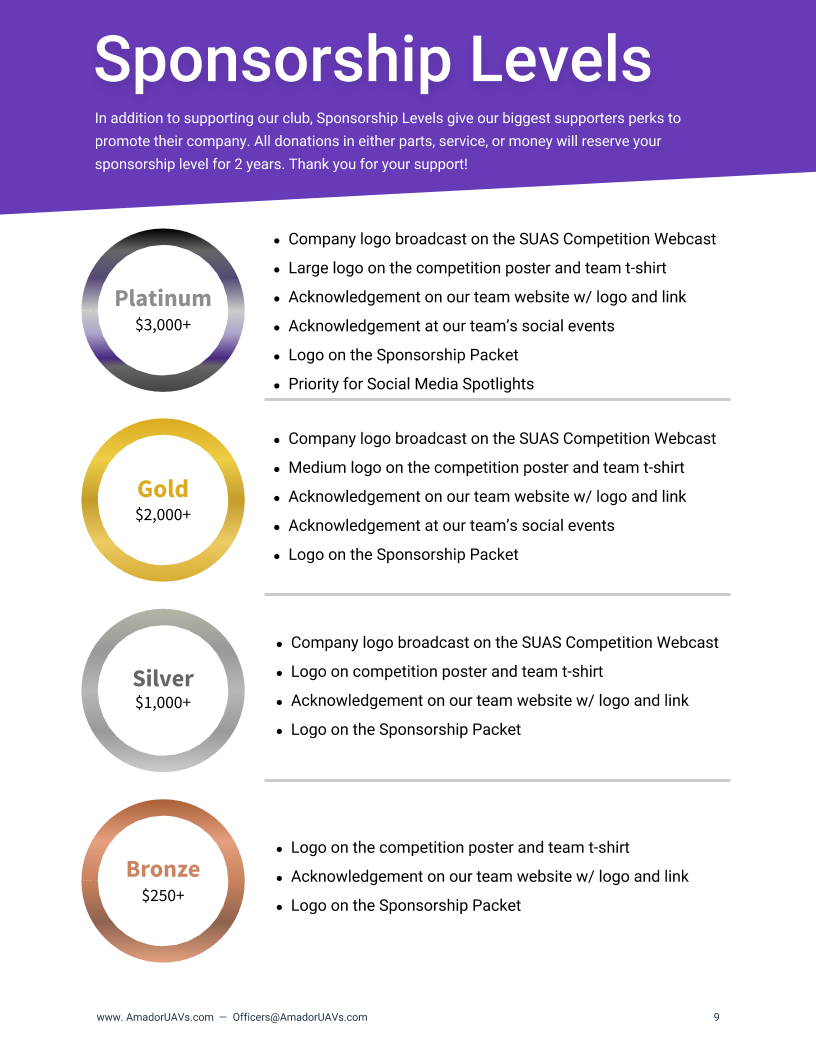
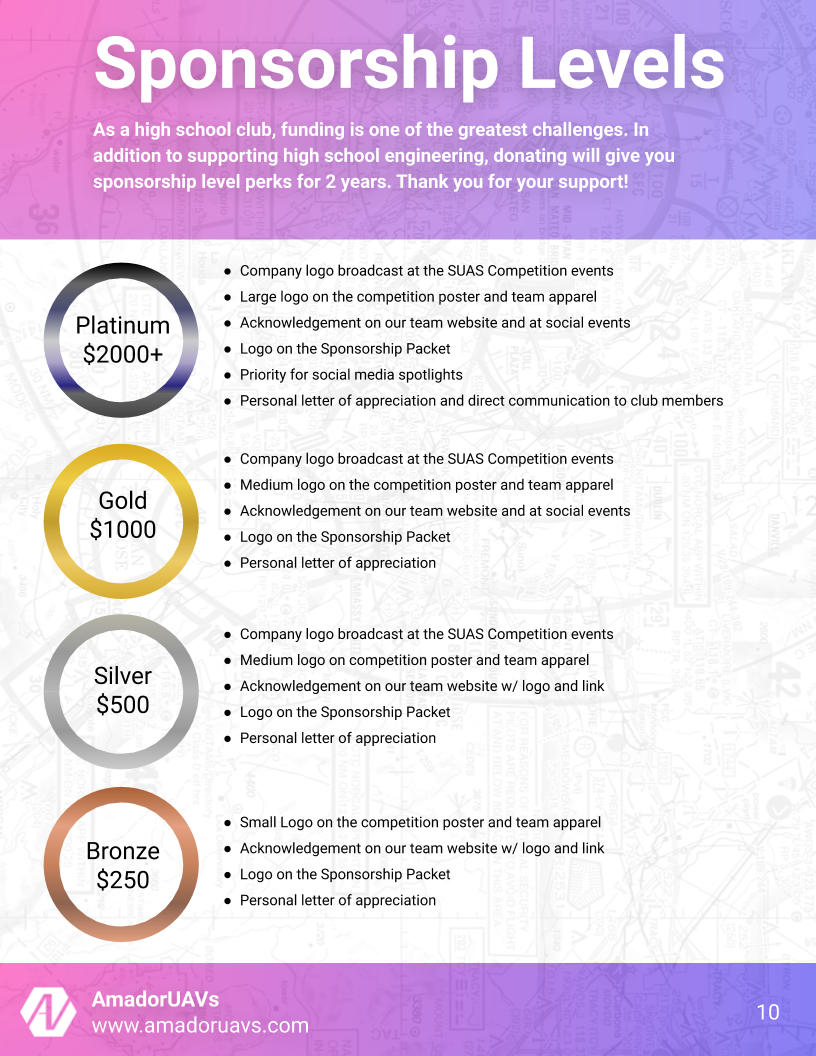
updated sponsorship levels and packet, still working to get text working

diff --git a/_site/sponsors.html b/_site/sponsors.html
@@ -66,7 +66,7 @@
         <div class="container has-text-centered">
             <h1 class="title is-1">Sponsor Us!</h1>
             <h1 class="subtitle">Support high school aviation and engineering, and get cool perks such as a logo on our drone and more!</h1>
-            <a class="button is-info" href="https://drive.google.com/open?id=1ljbzLm_QGdZGVtO8ctIcZxbWYral9QcC">
+            <a class="button is-info" href="https://drive.google.com/open?id=1BZ1BHePTxTGrvTFHCgmu2J6DsGFHBZnt">
                 Sponsorship Packet
                 <!-- <span class="icon"> -->
                     <!-- <i class="fas fa-external-link-square-alt"></i> -->
@@ -79,7 +79,7 @@
     </div>
 </section>
 
-<h1 class-"subtitle">Interested in sponsoring AmadorUAVs? Contact us at officers@amadoruavs.com to learn more.</h1>
+<h1 class="subtitle has-text-centered">Interested in sponsoring AmadorUAVs? Contact us at officers@amadoruavs.com to learn more.</h1>
 <br />
 
 <div class="container fullheight-img" id="sponsorLevelsSection">

diff --git a/_site/index.html b/_site/index.html
@@ -66,7 +66,7 @@
         <div class="container has-text-centered">
             <h1 class="title bot-pad-title large-title has-text-white">We are AmadorUAVs</h1>
             <h1 class="subtitle is-1 has-text-white">Building the future of autonomous aviation.</h1>
-            <a class="button is-info" href="#aboutavuav">
+            <a class="button is-info" href="#aboutus">
                 Learn More ▼
             </a>
         </div>
@@ -76,7 +76,7 @@
 <!-- <div class="trap">dfdf</div> -->
 
 <section class="section" id="blockAbout Us">
-    <div class="container" id="aboutavuav">
+    <div class="container" id="aboutus">
         
         <div class="columns">
             <div class="column">
@@ -94,7 +94,7 @@
 </section>
 
 <section class="section" id="blockOur UAV">
-    <div class="container" id="aboutavuav">
+    <div class="container" id="aboutus">
         
         <div class="columns">
             <div class="column has-text-centered">

diff --git a/sponsors.html b/sponsors.html
@@ -10,7 +10,7 @@ text1: Interested in sponsoring AmadorUAVs? Contact us at officers@amadoruavs.co
         <div class="container has-text-centered">
             <h1 class="title is-1">{{ page.heading }}</h1>
             <h1 class="subtitle">{{ page.subheading }}</h1>
-            <a class="button is-info" href="https://drive.google.com/open?id=1ljbzLm_QGdZGVtO8ctIcZxbWYral9QcC">
+            <a class="button is-info" href="https://drive.google.com/open?id=1BZ1BHePTxTGrvTFHCgmu2J6DsGFHBZnt">
                 Sponsorship Packet
                 <!-- <span class="icon"> -->
                     <!-- <i class="fas fa-external-link-square-alt"></i> -->
@@ -23,7 +23,7 @@ text1: Interested in sponsoring AmadorUAVs? Contact us at officers@amadoruavs.co
     </div>
 </section>
 
-<h1 class-"subtitle">{{ page.text1 }}</h1>
+<h1 class="subtitle has-text-centered">{{ page.text1 }}</h1>
 <br />
 
 <div class="container fullheight-img" id="sponsorLevelsSection">

diff --git a/index.html b/index.html
@@ -9,7 +9,7 @@ subheading: Building the future of autonomous aviation.
         <div class="container has-text-centered">
             <h1 class="title bot-pad-title large-title has-text-white">{{ page.heading }}</h1>
             <h1 class="subtitle is-1 has-text-white">{{ page.subheading }}</h1>
-            <a class="button is-info" href="#aboutavuav">
+            <a class="button is-info" href="#aboutus">
                 Learn More ▼
             </a>
         </div>
@@ -19,7 +19,7 @@ subheading: Building the future of autonomous aviation.
 <!-- <div class="trap">dfdf</div> -->
 {% for block in site.data.about %}
 <section class="section" id="block{{ block.title }}">
-    <div class="container" id="aboutavuav">
+    <div class="container" id="aboutus">
         {% if block.align == 'left' %}
         <div class="columns">
             <div class="column">
